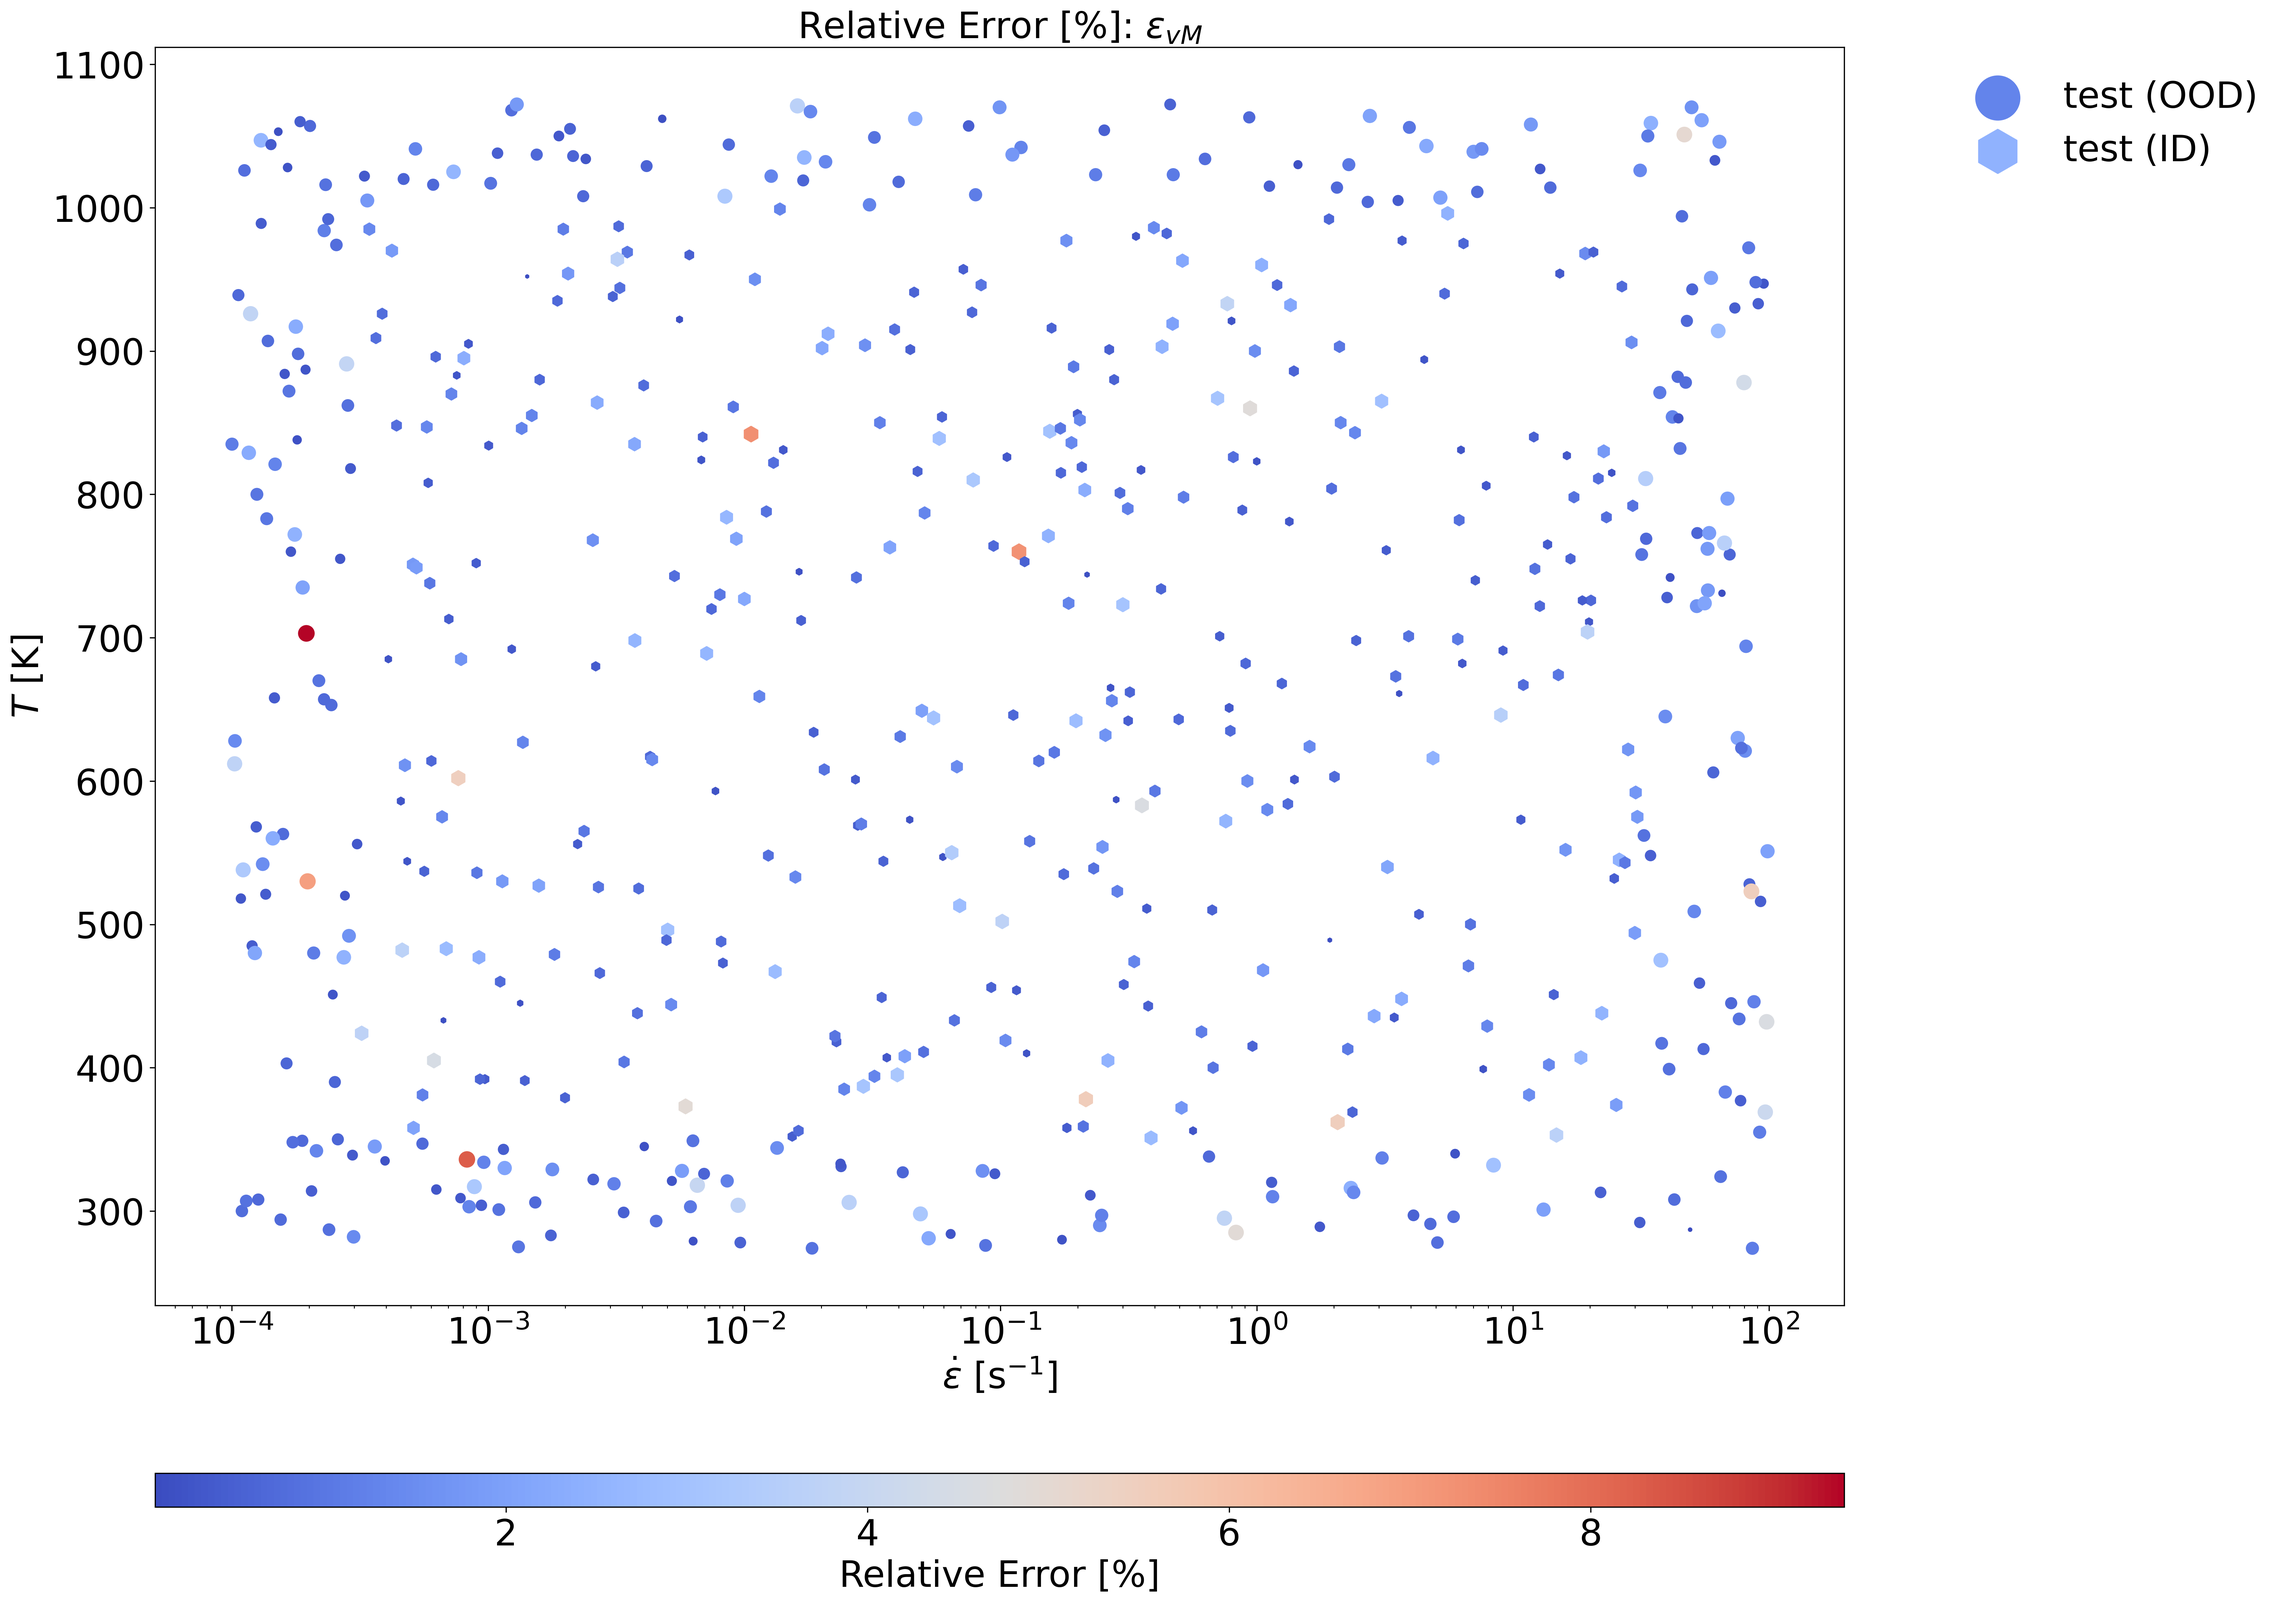
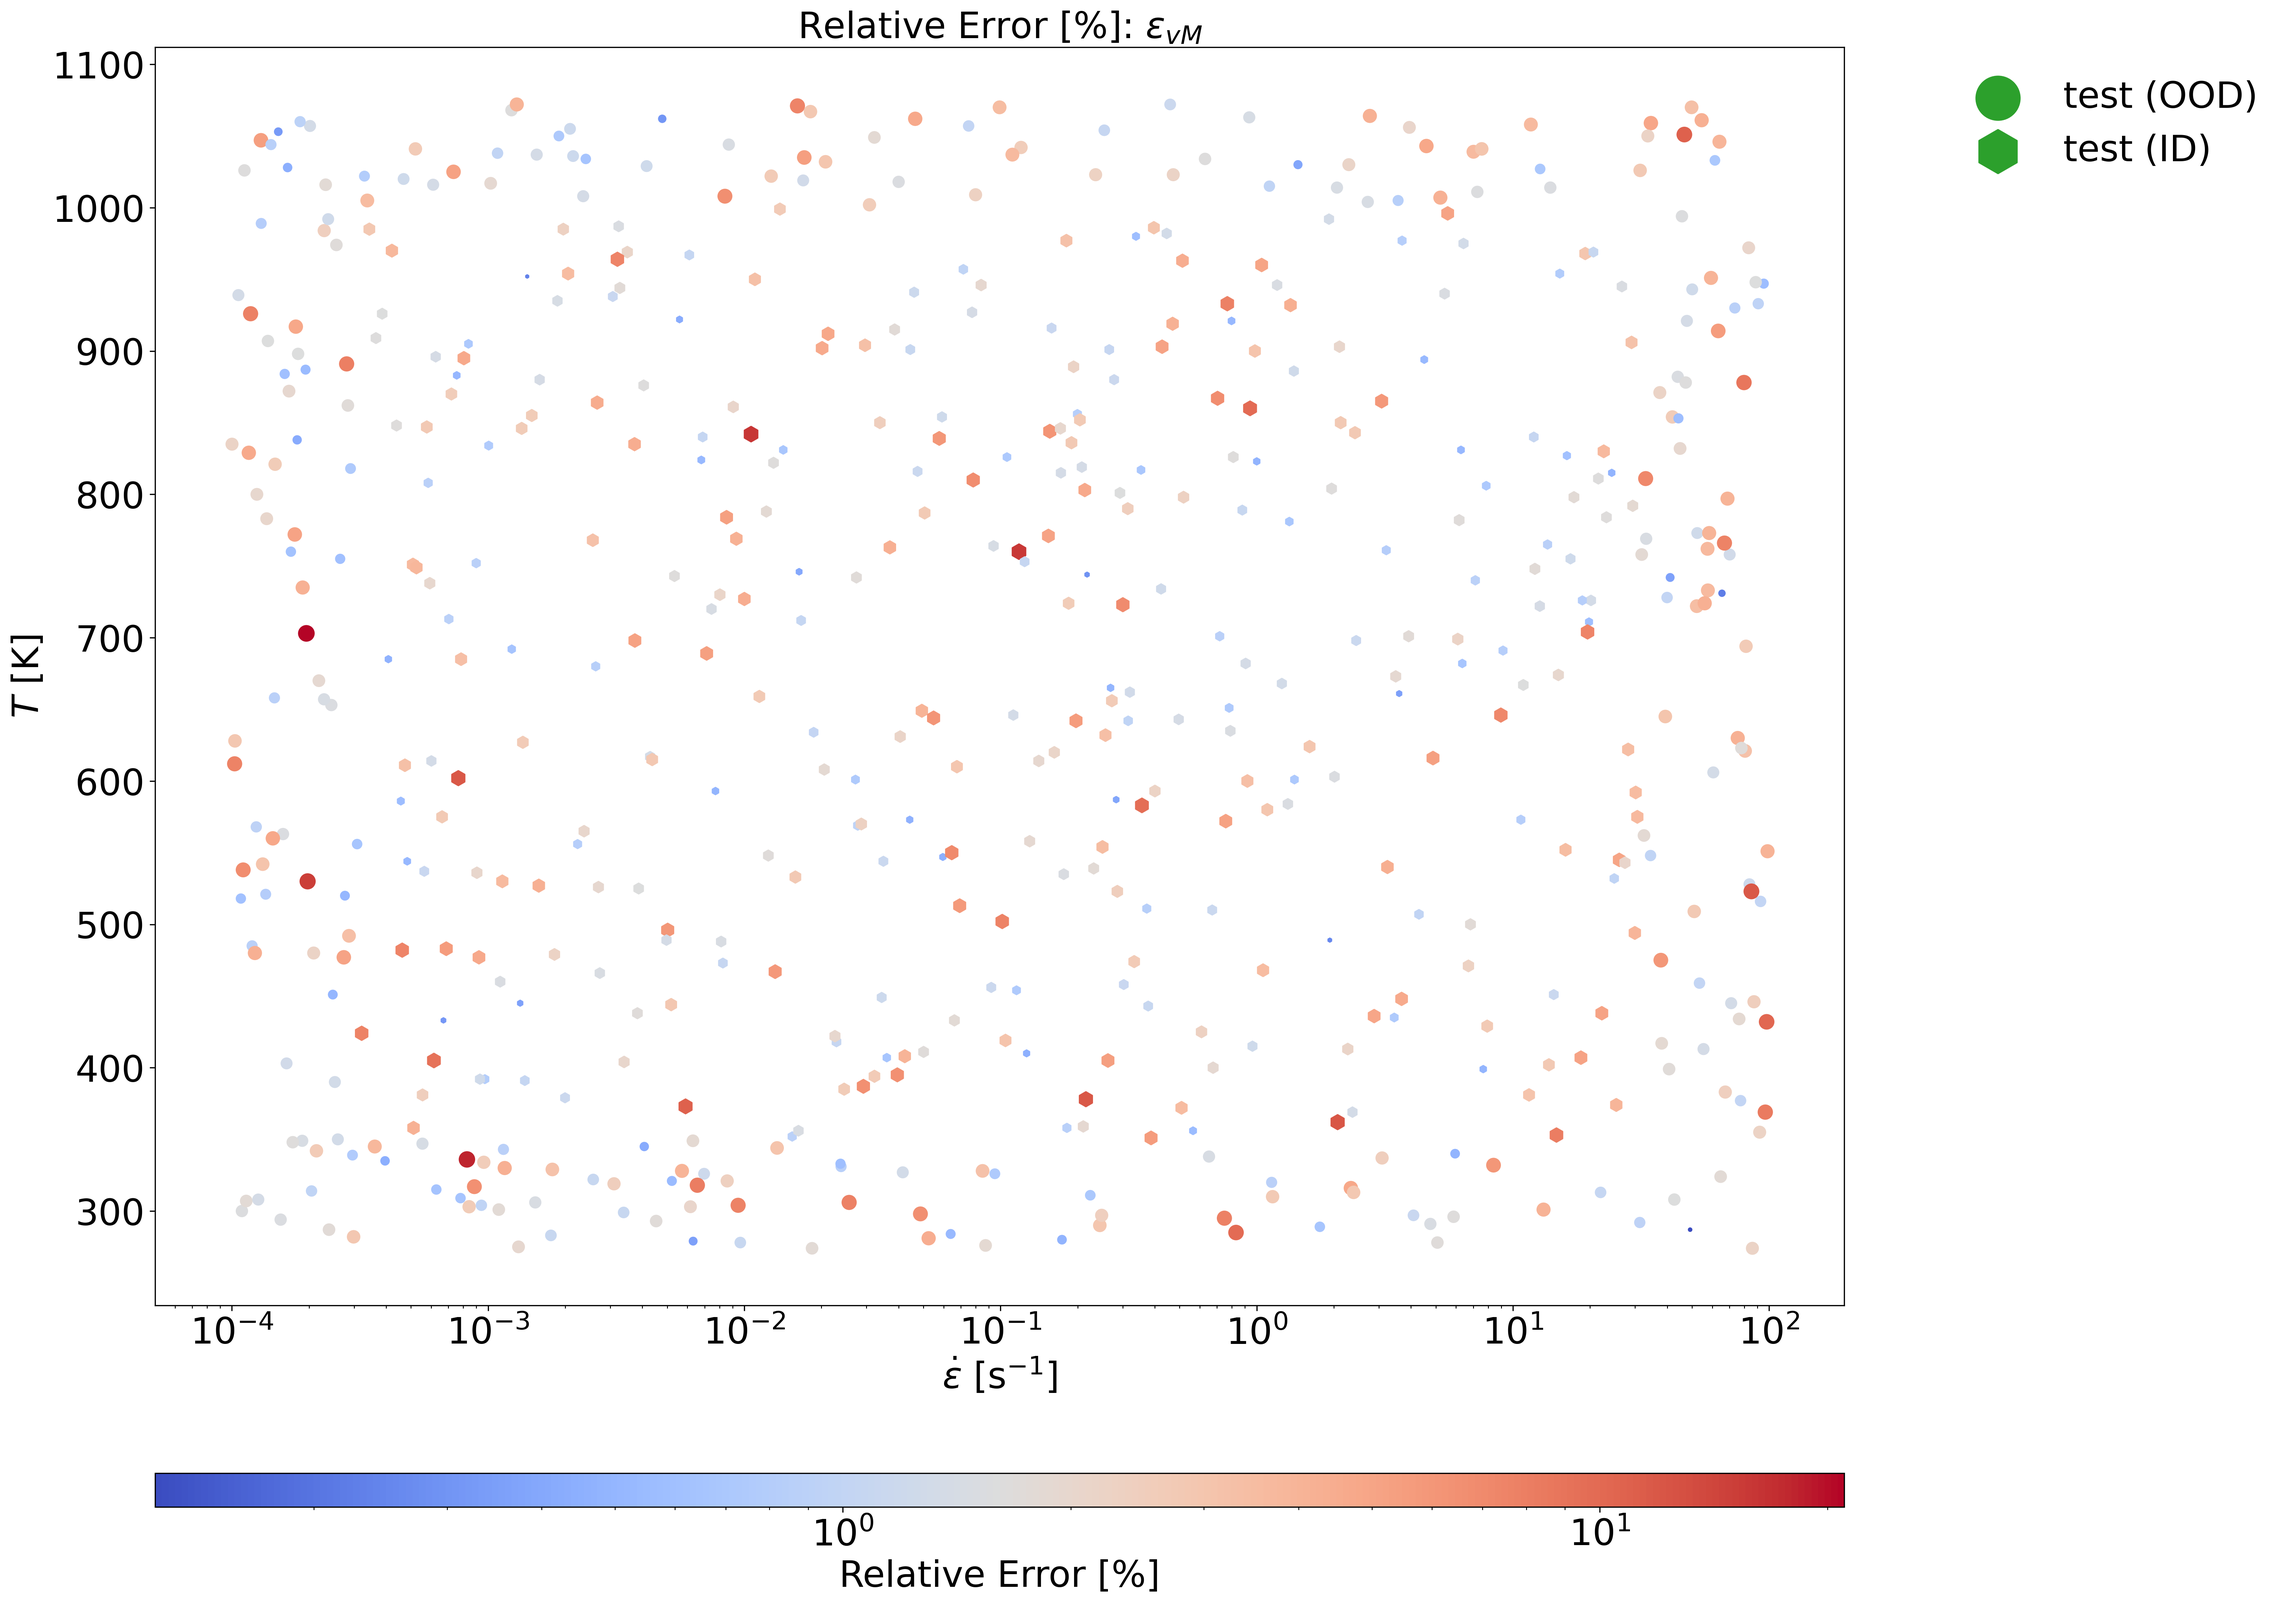
polish plotErrorDist.py

diff --git a/test_ROM_oligocrystal/rom/plotErrorDist.py b/test_ROM_oligocrystal/rom/plotErrorDist.py
@@ -25,7 +25,7 @@ TrainIdx   = np.loadtxt('TrainIdx.dat', dtype=int)
 TestIdx    = np.loadtxt('TestIdx.dat', dtype=int)
 TestIdxOOD = np.loadtxt('TestIdxOOD.dat', dtype=int)
 TestIdxID  = np.loadtxt('TestIdxID.dat', dtype=int)
-fois    = ['MisesCauchy', 'MisesLnV'] # fields of interest
+fois   = ['MisesCauchy', 'MisesLnV'] # fields of interest
 labels = ['test (OOD)','test (ID)']
 colors = ['tab:orange','tab:green']
 cols   = ['MeanRelError_MisesCauchy', 'MeanRelError_MisesLnV']
@@ -77,20 +77,24 @@ for foi, label, col, title in zip(fois, labels, cols, titles):
     fig, ax = plt.subplots(num=None, figsize=(20, 20), dpi=300, facecolor='w', edgecolor='k')
     scOOD = plotDataframe(dfError19_OOD, marker='o', label='test (OOD)')
     scID  = plotDataframe(dfError19_ID , marker='h', label='test (ID)')
+    # Set legend
     handles, labels = plt.gca().get_legend_handles_labels()
     by_label = dict(zip(labels, handles))
     # leg = plt.legend(by_label.values(), by_label.keys(), fontsize=24, loc='upper left', bbox_to_anchor=(1.05,.0),frameon=False, markerscale=5)
+    leg = plt.legend(fontsize=24, loc='upper left', bbox_to_anchor=(1.05, 1.0),frameon=False, markerscale=4)
+    for marker in leg.legendHandles:
+        marker.set_color('tab:green')
     # Colorbar
     sm = plt.cm.ScalarMappable(cmap=cmap, norm=mpl.colors.LogNorm(vmin=z.min(), vmax=z.max()))
     sm.set_clim(vmin=z.min(), vmax=z.max())
     cbar = fig.colorbar(sm, cmap=cmap, orientation='horizontal', aspect=50, pad=0.1)
     # cbar = plt.colorbar(scOOD, cmap=cmap, orientation='horizontal', aspect=50, pad=0.1)
     cbar.set_label('Relative Error [%]', fontsize=24, rotation=0)
+    cbar.ax.minorticks_on()
     plt.xscale('log',base=10)
     plt.title(title, fontsize=24)
     plt.xlabel(r'$\dot{\varepsilon}$ [s$^{-1}$]', fontsize=24)
     plt.ylabel(r'$T$ [K]', fontsize=24)
-    plt.legend(fontsize=24, loc='upper left', bbox_to_anchor=(1.05, 1.0),frameon=False, markerscale=4)
     plt.savefig(f'MeanRelErr{foi}.png', dpi=None, facecolor='w', edgecolor='w', orientation='portrait', format=None, transparent=False, bbox_inches='tight', pad_inches=0.1, metadata=None)
 
 

diff --git a/test_ROM_oligocrystal/rom/README.md b/test_ROM_oligocrystal/rom/README.md
@@ -129,6 +129,7 @@ These are the steps to construct a projection-based ROM.
 # To-do
 
 1. Plot FOM vs ROM.
-2. Implement error metrics. 
-3. Plot error vs. parameters
-4. Remove incomplete dataset in `IncompleteIdx.dat` in `sampleTrainTest.py`: replot sampling parameters
+1. ~~Only calculate error on solids (not voids)~~
+1. ~~Implement error metrics.~~ 
+1. ~~Plot error vs. parameters~~
+1. ~~Remove incomplete dataset in `IncompleteIdx.dat` in `sampleTrainTest.py`: replot sampling parameters~~
